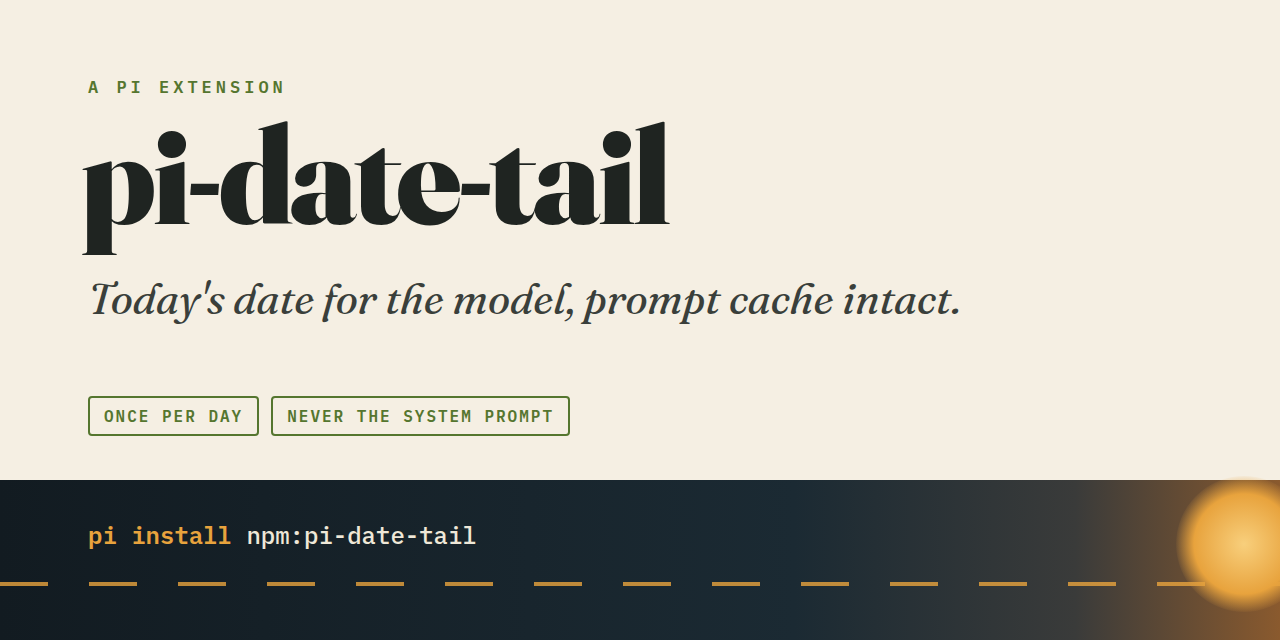
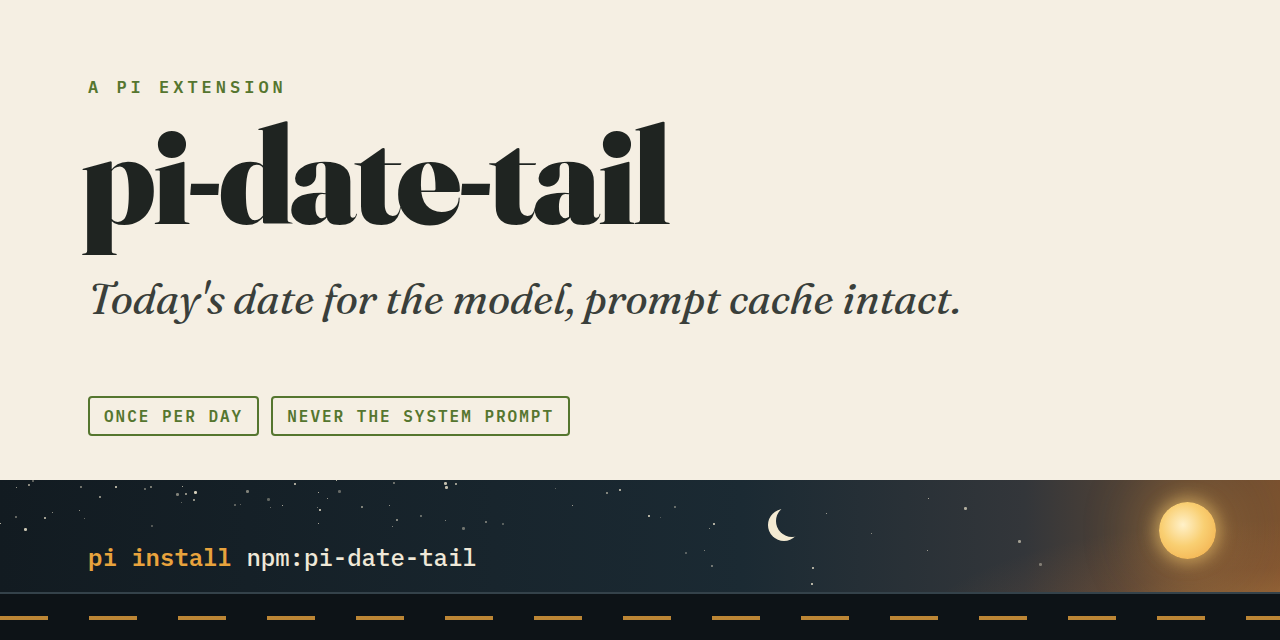
README: why it exists, with an infographic
The README opens with the infographic, what the extension does in one line,
the install command, and a "Why" section: the problem it solves and what
each alternative costs. The infographic replaces the plain card as the
package's pi.image, and the social preview gets the night sky.

Changed region(s): [[0.0, 0.75, 1.0, 1.0], [0.5938, 0.8125, 0.625, 0.8438]]

diff --git a/README.md b/README.md
@@ -1,13 +1,33 @@
 # pi-date-tail
 
-**Your calendar day for [pi](https://github.com/earendil-works/pi), without touching the system prompt.**
+![pi-date-tail: without a date the model guesses one, and where the date goes decides what the prompt cache re-reads, shown over one week for a date in the system prompt, a date section from an extension, a date fixed at launch, and pi-date-tail's one hidden line at the end](https://raw.githubusercontent.com/lobo235/pi-date-tail/main/.github/assets/infographic.png)
+
+**Your model knows what day it is. Your prompt cache never notices.** pi-date-tail gives [pi](https://github.com/earendil-works/pi)'s model the
+calendar day as one short hidden message at the end of the conversation, once a day, so nothing a prompt cache
+already holds ever changes.
+
+```bash
+pi install npm:pi-date-tail
+```
+
+## Why pi-date-tail
 
 pi does not tell the model what day it is. It took the date out of its system prompt
 ([pi#6621](https://github.com/earendil-works/pi/issues/6621)) so the prompt stays the same from one day to the
 next and a provider's prompt cache keeps working. That is the right call for the cache, but a model with no date
 guesses one: it dates a changelog entry from its training cutoff, misreads "yesterday" in a log, or works out a
-deadline from the wrong day. pi-date-tail gives the model the day back as one short, hidden message appended to
-the conversation, once a day, so nothing a cache already holds ever changes.
+deadline from the wrong day.
+
+Giving the date back is harder than it looks, because where it goes decides what the cache has to read again:
+
+- **In the system prompt**, the first request after midnight re-reads the whole conversation, every day.
+- **In a section an extension adds**, it drops out of every run your prompt did not start and comes back with
+  your next one; on a server that renders all system text first, each change re-reads the conversation.
+- **Fixed at launch**, it never changes, so it is wrong from midnight until you restart.
+- **pi-date-tail** appends the day at the end of the conversation, where it changes nothing ahead of it: 40 to
+  50 tokens once a day, with no extra requests, no network calls and no settings.
+
+The details are under [Why a message, not the system prompt](#why-a-message-not-the-system-prompt).
 
 ## What the model sees
 

diff --git a/CONTRIBUTING.md b/CONTRIBUTING.md
@@ -62,7 +62,7 @@ one by hand, set the exact version of `@earendil-works/pi-coding-agent` in `devD
 
 **Where a release shows up.** The [pi package gallery](https://pi.dev/packages) lists the package from npm within
 minutes of a publish: its card shows the `package.json` `description` and the `pi.image` card
-(`.github/assets/card.png`, pinned to the release tag), and its page renders the README inside the published
+(`.github/assets/infographic.png`, pinned to the release tag), and its page renders the README inside the published
 tarball. Editing either on GitHub changes nothing there until the next release, and a README link to a file the
 package does not ship must be an absolute GitHub URL. After `publish`, `release.yml` creates the GitHub Release
 for the tag from its `CHANGELOG.md` section; for the manual first publish, run
